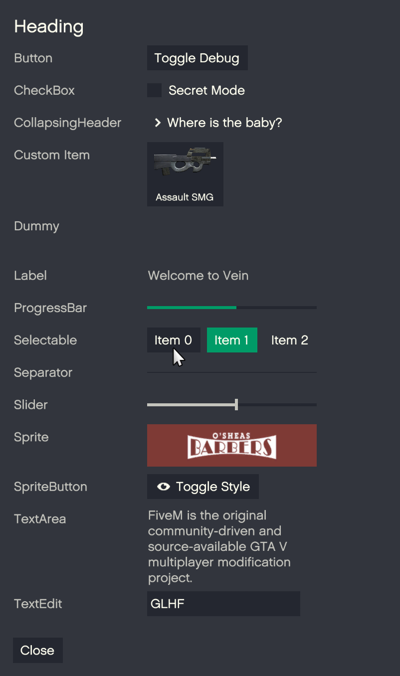
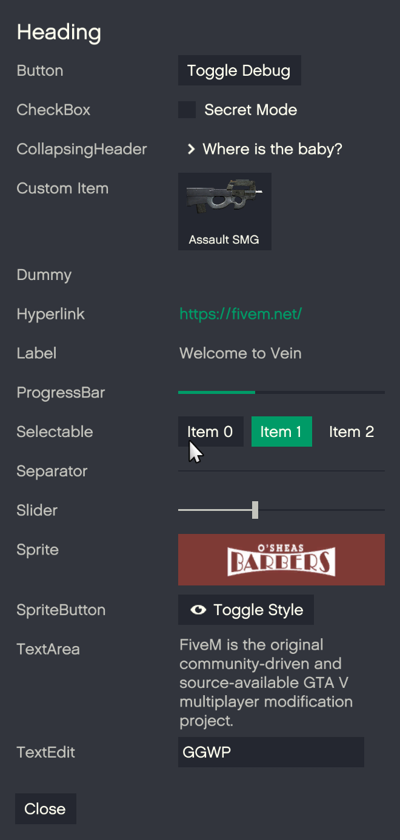
Reduce dummy size
And update screenshot

diff --git a/demo.js b/demo.js
@@ -84,7 +84,7 @@
 		vein.beginRow();
 		drawLabel('Dummy');
 
-		vein.dummy(controlWidth, 0.059);
+		vein.dummy(controlWidth, 0.035);
 		vein.endRow();
 
 		vein.beginRow();
